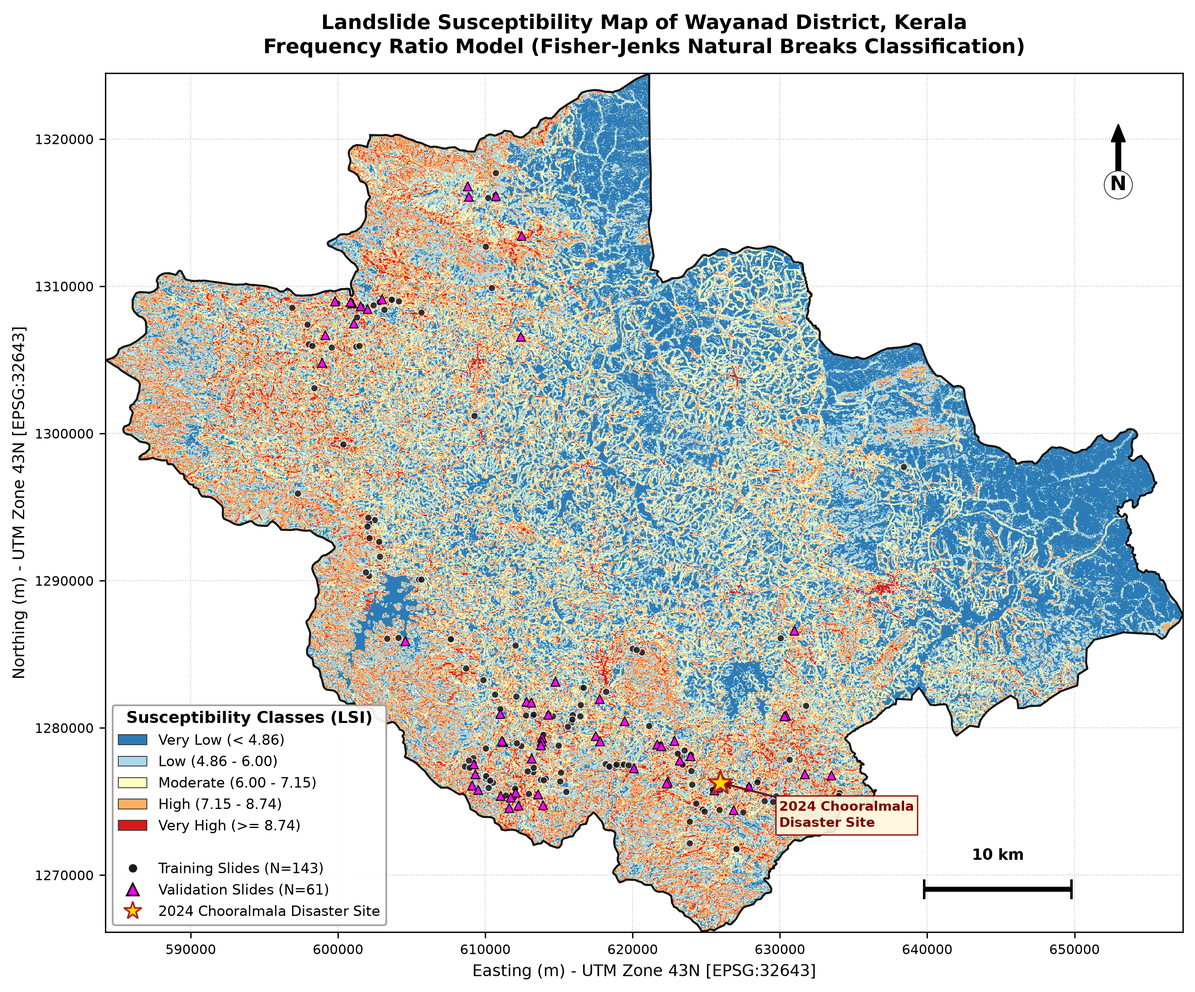
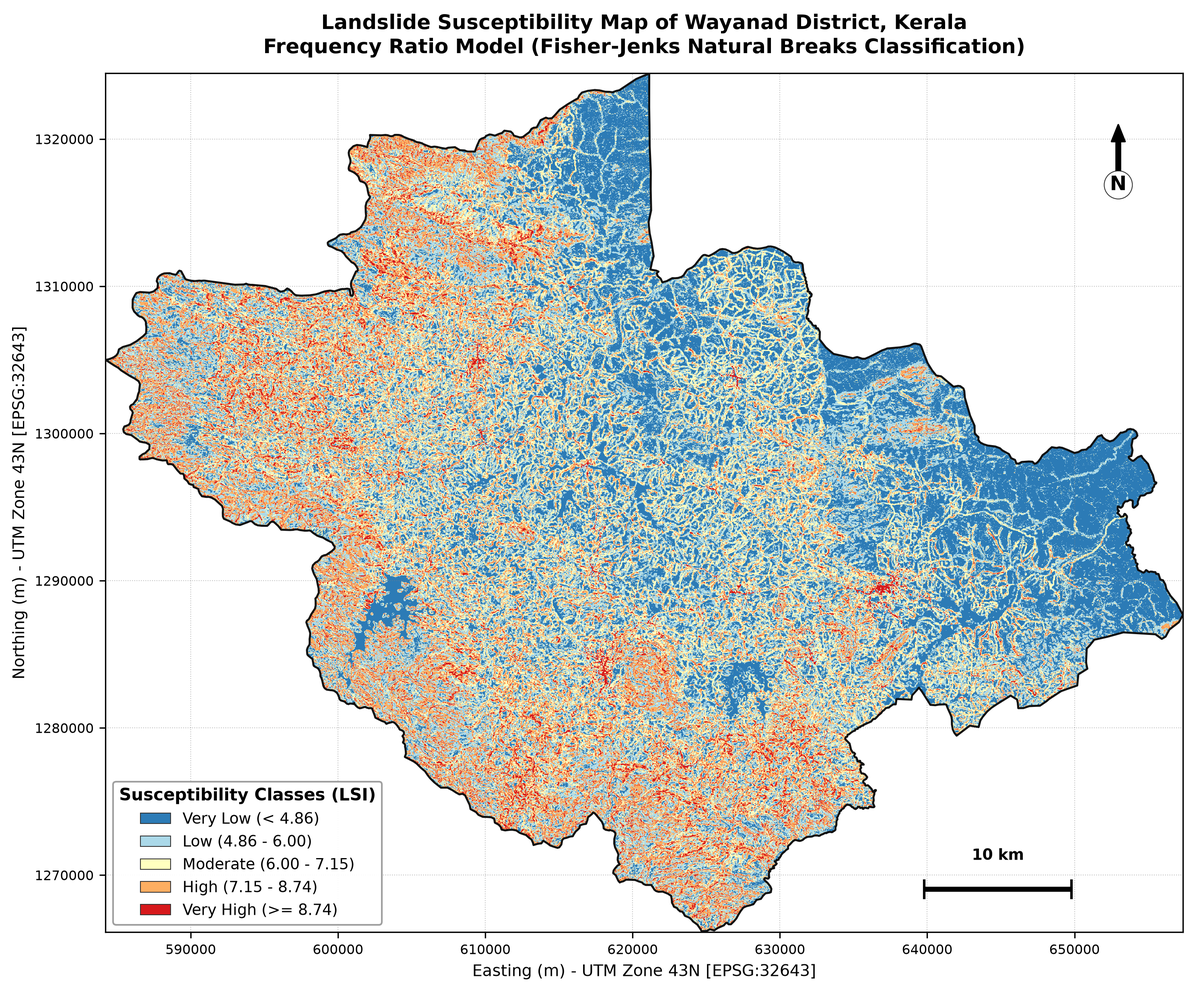
feat: add clean unobstructed susceptibility map of Wayanad without point markings

diff --git a/scripts/09_classify_zones.py b/scripts/09_classify_zones.py
@@ -249,8 +249,8 @@ def classify_susceptibility_zones():
     (TABLES_DIR / "zone_statistics.md").write_text("\n".join(md_lines))
     print(f"Exported tables to {TABLES_DIR / 'zone_statistics.csv'} and {TABLES_DIR / 'zone_statistics.md'}")
 
-    # 5. Generate High-Resolution Cartographic Publication Figure
-    print("\nGenerating publication-quality cartographic map...")
+    # 5. Generate High-Resolution Cartographic Publication Figures (Clean & Overlay)
+    print("\nGenerating publication-quality cartographic maps...")
     dist_path = PROC / "district.gpkg"
     if not dist_path.exists():
         dist_path = MASTER_DIR / "district.gpkg"
@@ -262,24 +262,63 @@ def classify_susceptibility_zones():
     miny = maxy + H * T.e
     extent = (minx, maxx, miny, maxy)
 
-    fig, ax = plt.subplots(figsize=(10, 11), dpi=300)
-
-    # Plot zoned raster (masking value 0)
     masked_zone = np.ma.masked_equal(zone, 0)
     cmap = ListedColormap(ZONE_COLORS)
-    im = ax.imshow(masked_zone, cmap=cmap, vmin=1, vmax=5, extent=extent, interpolation="nearest", origin="upper")
 
-    # Plot district boundary
+    # Pure zone patches for clean legend
+    zone_patches = [
+        mpatches.Patch(facecolor=col, edgecolor="#333333", lw=0.5, label=f"{lab} ({interval})")
+        for lab, col, interval in zip(ZONE_LABELS, ZONE_COLORS, intervals)
+    ]
+
+    # --- 5A. Clean Susceptibility Map (No Training/Validation Point Markings) ---
+    fig_clean, ax_clean = plt.subplots(figsize=(10, 11), dpi=300)
+    ax_clean.imshow(masked_zone, cmap=cmap, vmin=1, vmax=5, extent=extent, interpolation="nearest", origin="upper")
+
+    if dist_gdf is not None:
+        dist_gdf.boundary.plot(ax=ax_clean, edgecolor="#111111", linewidth=1.2, zorder=5)
+
+    leg_clean = ax_clean.legend(handles=zone_patches, title="Susceptibility Classes (LSI)", loc="lower left",
+                                fontsize=9, title_fontsize=10, framealpha=0.94, facecolor="white",
+                                edgecolor="#999999", fancybox=True)
+    leg_clean.get_title().set_fontweight("bold")
+
+    add_scale_bar(ax_clean, length_km=10, location=(0.76, 0.05))
+    add_north_arrow(ax_clean, location=(0.94, 0.94))
+
+    ax_clean.set_title(f"Landslide Susceptibility Map of {DISTRICT} District, Kerala\n"
+                       f"Frequency Ratio Model (Fisher-Jenks Natural Breaks Classification)",
+                       fontsize=12, fontweight="bold", pad=12)
+    ax_clean.set_xlabel("Easting (m) - UTM Zone 43N [EPSG:32643]", fontsize=9.5)
+    ax_clean.set_ylabel("Northing (m) - UTM Zone 43N [EPSG:32643]", fontsize=9.5)
+    ax_clean.grid(color="gray", linestyle=":", linewidth=0.5, alpha=0.5)
+    ax_clean.ticklabel_format(style="plain", useOffset=False)
+    ax_clean.tick_params(labelsize=8)
+
+    plt.tight_layout()
+
+    clean_out_1 = OUT / "susceptibility_map.png"
+    clean_out_2 = OUT / "susceptibility_map_clean.png"
+    clean_out_3 = FIGURES_DIR / "susceptibility_map.png"
+    clean_out_4 = FIGURES_DIR / "susceptibility_map_clean.png"
+    clean_out_5 = FIGURES_DIR / "susceptibility_zones_jenks.png"
+
+    for p in (clean_out_1, clean_out_2, clean_out_3, clean_out_4, clean_out_5):
+        plt.savefig(p, dpi=300, bbox_inches="tight")
+    plt.close(fig_clean)
+
+    # --- 5B. Inventory Overlay Map (With Training, Validation & 2024 Benchmark Markings) ---
+    fig, ax = plt.subplots(figsize=(10, 11), dpi=300)
+    ax.imshow(masked_zone, cmap=cmap, vmin=1, vmax=5, extent=extent, interpolation="nearest", origin="upper")
+
     if dist_gdf is not None:
         dist_gdf.boundary.plot(ax=ax, edgecolor="#111111", linewidth=1.2, zorder=5)
 
-    # Plot landslide inventory overlay
     ax.scatter(train_xy[:, 0], train_xy[:, 1], c="#1a1a1a", edgecolors="white",
                s=18, linewidths=0.5, alpha=0.85, label=f"Training Slides (N={len(train_xy)})", zorder=6)
     ax.scatter(val_xy[:, 0], val_xy[:, 1], c="#ff00ff", edgecolors="black",
                marker="^", s=28, linewidths=0.6, alpha=0.95, label=f"Validation Slides (N={len(val_xy)})", zorder=7)
 
-    # Plot 2024 Chooralmala disaster initiation crown site
     lat_ch, lon_ch = 11.543, 76.155
     transformer = Transformer.from_crs("EPSG:4326", CRS, always_xy=True)
     ch_x, ch_y = transformer.transform(lon_ch, lat_ch)
@@ -291,15 +330,7 @@ def classify_susceptibility_zones():
                 bbox=dict(boxstyle="square,pad=0.25", facecolor="#fff8dc", edgecolor="#800000", lw=0.8, alpha=0.9),
                 zorder=9)
 
-    # Add zone patches for legend
-    legend_patches = []
-    for lab, col, interval in zip(ZONE_LABELS, ZONE_COLORS, intervals):
-        patch = mpatches.Patch(facecolor=col, edgecolor="#333333", lw=0.5, label=f"{lab} ({interval})")
-        legend_patches.append(patch)
-
-    legend_patches.append(mpatches.Patch(color="none", label=" "))  # spacer
-    # Combine legend handles
-    handles = list(legend_patches)
+    handles = list(zone_patches) + [mpatches.Patch(color="none", label=" ")]
     handles.append(plt.Line2D([0], [0], marker="o", color="none", markerfacecolor="#1a1a1a",
                               markeredgecolor="white", markersize=6, label=f"Training Slides (N={len(train_xy)})"))
     handles.append(plt.Line2D([0], [0], marker="^", color="none", markerfacecolor="#ff00ff",
@@ -312,33 +343,28 @@ def classify_susceptibility_zones():
                        edgecolor="#999999", fancybox=True)
     legend.get_title().set_fontweight("bold")
 
-    # Scale bar, north arrow, grid
     add_scale_bar(ax, length_km=10, location=(0.76, 0.05))
     add_north_arrow(ax, location=(0.94, 0.94))
 
     ax.set_title(f"Landslide Susceptibility Map of {DISTRICT} District, Kerala\n"
-                 f"Frequency Ratio Model (Fisher-Jenks Natural Breaks Classification)",
+                 f"Frequency Ratio Model (With Inventory & 2024 Benchmark Overlay)",
                  fontsize=12, fontweight="bold", pad=12)
     ax.set_xlabel("Easting (m) - UTM Zone 43N [EPSG:32643]", fontsize=9.5)
     ax.set_ylabel("Northing (m) - UTM Zone 43N [EPSG:32643]", fontsize=9.5)
-
-    # Coordinate grid lines
     ax.grid(color="gray", linestyle=":", linewidth=0.5, alpha=0.5)
     ax.ticklabel_format(style="plain", useOffset=False)
     ax.tick_params(labelsize=8)
 
     plt.tight_layout()
 
-    fig_out_1 = FIGURES_DIR / "susceptibility_map.png"
-    fig_out_2 = FIGURES_DIR / "susceptibility_zones_jenks.png"
-    fig_out_3 = OUT / "susceptibility_map.png"
+    overlay_out_1 = OUT / "susceptibility_map_with_points.png"
+    overlay_out_2 = FIGURES_DIR / "susceptibility_map_with_points.png"
+    plt.savefig(overlay_out_1, dpi=300, bbox_inches="tight")
+    plt.savefig(overlay_out_2, dpi=300, bbox_inches="tight")
+    plt.close(fig)
 
-    plt.savefig(fig_out_1, dpi=300, bbox_inches="tight")
-    plt.savefig(fig_out_2, dpi=300, bbox_inches="tight")
-    plt.savefig(fig_out_3, dpi=300, bbox_inches="tight")
-    plt.close()
-
-    print(f"Saved publication figures to:\n  - {fig_out_1}\n  - {fig_out_2}\n  - {fig_out_3}")
+    print(f"Saved clean susceptibility map to:\n  - {clean_out_1}\n  - {clean_out_2}")
+    print(f"Saved point-overlay map to:\n  - {overlay_out_1}")
 
     return {
         "zone": zone,

diff --git a/README.md b/README.md
@@ -14,9 +14,9 @@
 
 ## Primary Deliverable: Landslide Susceptibility Zonation Map
 
-![Landslide Susceptibility Map of Wayanad District](outputs/susceptibility_map.png)
+![Landslide Susceptibility Map of Wayanad District](outputs/reports/figures/susceptibility_map_with_points.png)
 
-*Figure 1: Five-tier Landslide Susceptibility Zonation (LSZ) map of Wayanad District (`EPSG:32643`, 30 m grid resolution). The map displays Fisher-Jenks Natural Breaks zones, pre-2016 training and validation landslide points, and the blind out-of-sample July 30, 2024 Chooralmala disaster initiation point (`★`).*
+*Figure 1: Full five-tier Landslide Susceptibility Zonation (LSZ) map of Wayanad District (`EPSG:32643`, 30 m grid resolution) classified via Fisher-Jenks Natural Breaks without point markings. (See [`outputs/susceptibility_map_with_points.png`](outputs/susceptibility_map_with_points.png) for the inventory and 2024 Chooralmala benchmark overlay).*
 
 ---
 
